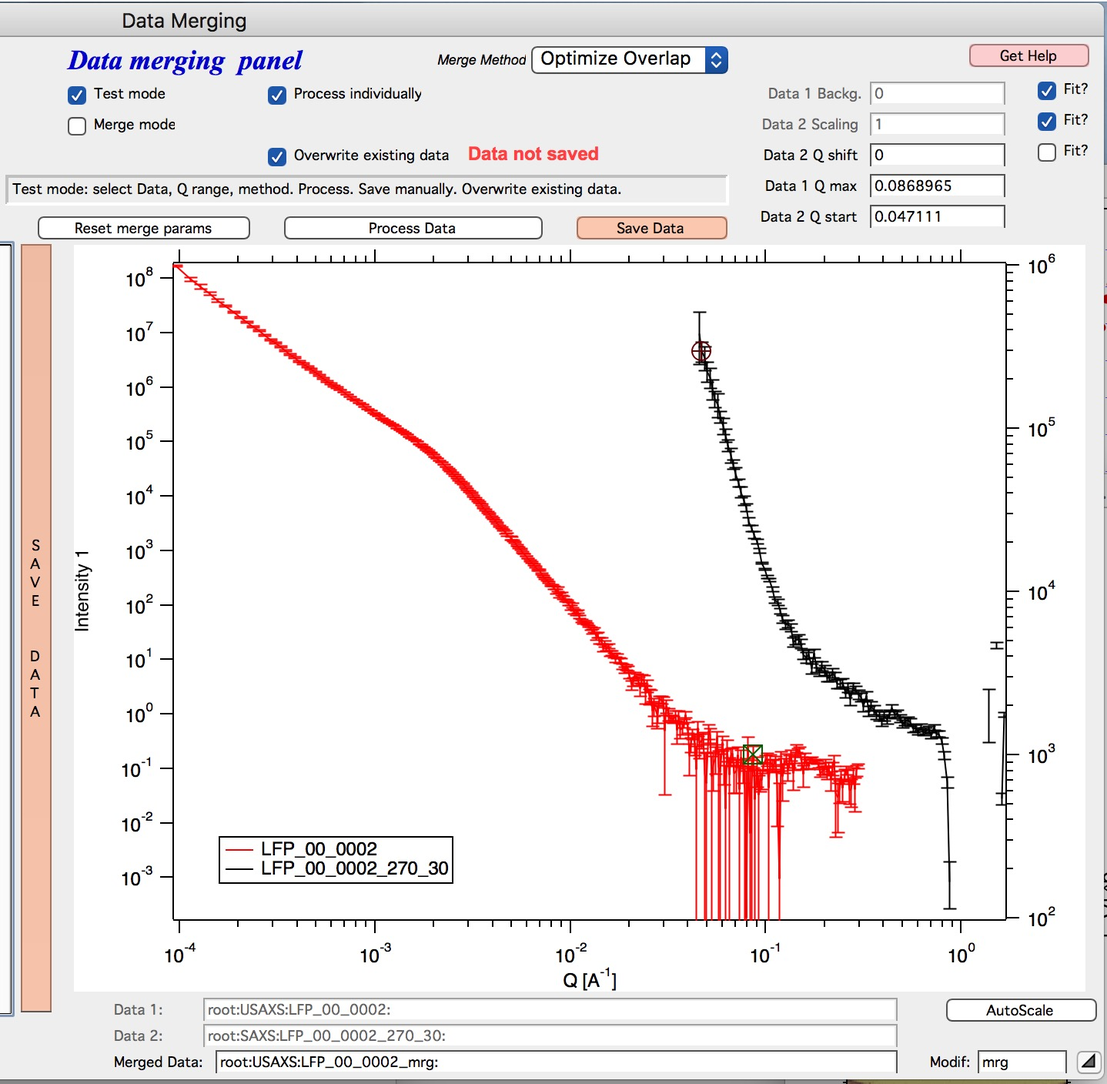
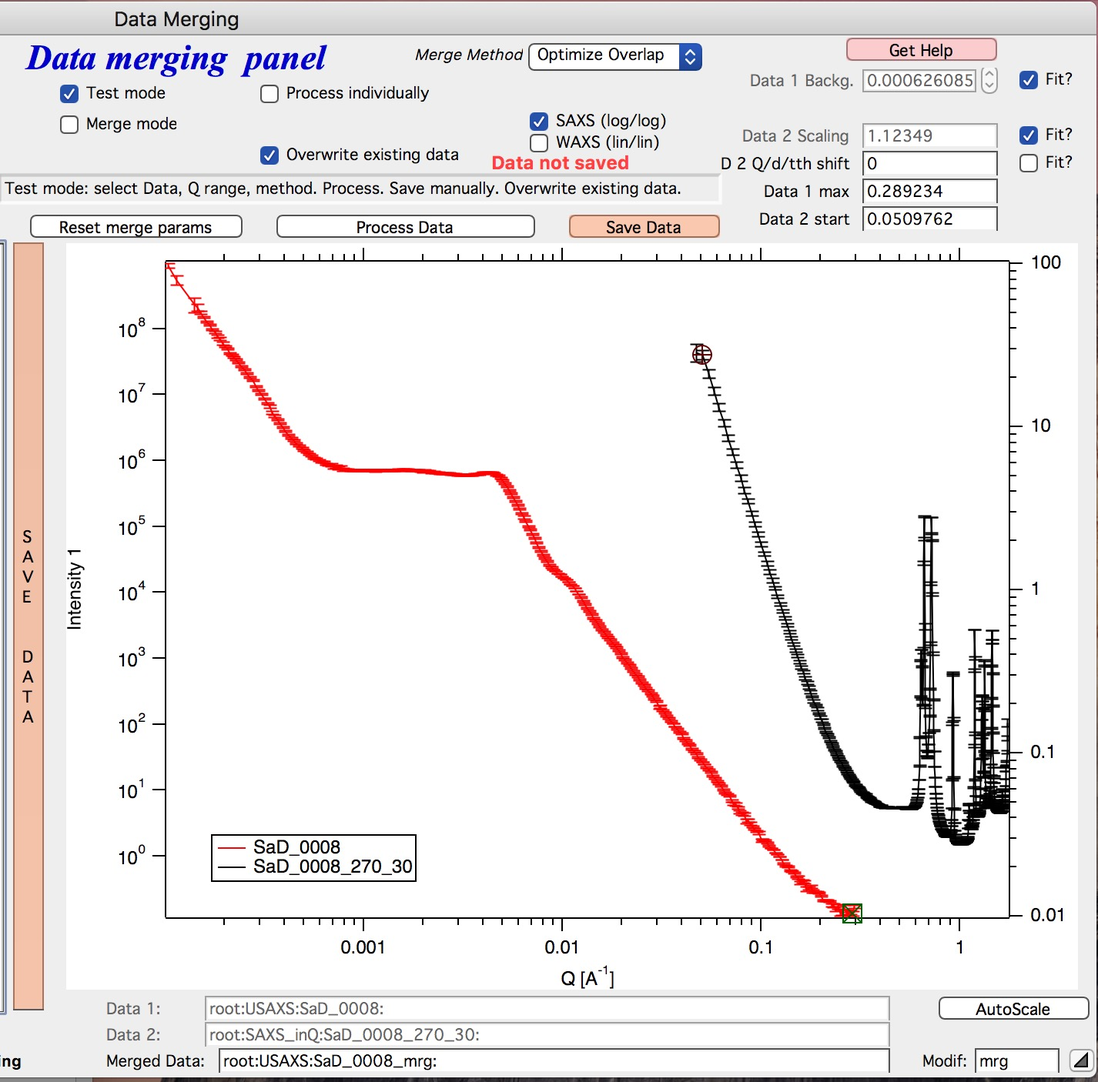
Fixes to data manipulation
Fixed Data Manipualtion to reflect changes. Fix for Deceber 2018 code release.

diff --git a/docs/source/Irena/DataManipulation.rst b/docs/source/Irena/DataManipulation.rst
@@ -5,14 +5,21 @@
 Data manipulation tools
 =======================
 
+List of Tools
+----------------
+
+1.  :ref:`Data Manipulation 1 - one or two data sets <data_manipulation_1>`
+2.  :ref:`Data Manipualtion 2 - many data sets <data_manipulation_2>`
+3.  :ref:`Data Merge - two data segments <data_merge>`
+
+Data manipulation I
+-------------------
 
 .. Figure:: media/DataManipulation1.png
            :align: left
            :width: 280px
            :figwidth: 300px
 
-Data manipulation I
--------------------
 
 This tool allows the user to modify data in many ways. It can work on one or two data sets at the same time. The data sets may or may not contain errors.
 
@@ -259,9 +266,11 @@ Post processing enables you to further modify data after they were processed thr
 Data merging
 ------------
 
-This tool is used to merge to segments of data covering overlapping q ranges. This is common situation for 9ID USAXS/SAXS/WAXS instrument, which collects data with three different geometries sequentially. Each data set for the same sample is reduced individually and then user has three individual segments of data, which can be combined together to create one new data set covering all of the q range.
+This tool is used to merge to segments of data covering overlapping q, two-theta, or d ranges. The tool can handle SAXS as well as WAXS data. This is common situation for 9ID USAXS/SAXS/WAXS instrument, which collects data with three different geometries sequentially. Each data set for the same sample is reduced individually and then user has three individual segments of data, which can be combined together to create one new data set covering all of the q range.
 
-This tool can help to merge two data sets at time. It is designed to efficiently scale, subtract background, and optionally q-shift the data together as easily and as efficiently as possible. It can do it manually by selecting each data set individually or sequentially, by selecting sets of data sets and processing all at once. It can also fit Data 1 set of data with function dependence (power law, power law with background or Porod with background) and use the fit results to create smooth version fo the data. This sinigficantly improves fit between the two segments when Data 1 high-q area is very noisy.
+It should be pointed out, that this is generally **BAD IDEA** . Data from segments collected at different distances or using different detectors will invariably have different resolutions, uncertainties, etc. Better data analysis software should allow to analyze data consisting of multiple independent segments, where the differences in resolution and uncertainties calculations can be handled better. **You have been warned. Proceed at your own peril.**
+
+This tool can help to merge two data sets at time. It is designed to efficiently scale second data set, subtract background from the first data set, and optionally q-shift any ONE of the two data sets - and merge the data together as easily and as efficiently as possible. It can do it manually by selecting each data set individually or sequentially, by selecting sets of data sets and processing all at once. It can also fit Data 1 set of data with function dependence (power law, power law with background or Porod with background) and use the fit results to create smooth version fo the data. This significantly improves fit between the two segments when Data 1 high-q area is very noisy.
 
 Please note, that the function of this tool is pretty limited. More functionality is available in the Data manipulation I and Data manipulation II. I do not plan to add other “missions” to this tool, use the other tools for anything, which is more advanced.
 
@@ -271,23 +280,23 @@ Data requirements: To merge two data sets you need to have data of one of the tw
 
 USAXS data: Inside root:USAXS: folder, name of the folder represents the sample name and the data are named SMR\_Int/SMR\_Qvec/SMR\_Error or DSM\_Int/DSM\_Qvec/DSM\_Error. Optionally you can have SMR/DSM\_dQ which is Q resolution wave. These data are, if present, properly passed through the calculations.
 
-QRS data: Folder name represents the sample name and inside this folder you have three or four waves: Q\_SampleName, R\_SampleName (Intensity), S\_SampleName (Intensity uncertainty), optionally W\_SampleName (Q resolution). No other naming system is NOT supported at this time and if needed, will need to be added into the system (request it, justify and send examples…).
+QRS data: Folder name represents the sample name and inside this folder you have three or four waves: Q\_SampleName, R\_SampleName (Intensity), S\_SampleName (Intensity uncertainty), optionally W\_SampleName (Q resolution). You can also have data Irena & Nika consider QRS also : consisting of d\_SampleName, R\_SampleName (Intensity), S\_SampleName or t\_SampleName, R\_SampleName (Intensity), S\_SampleName. The difference is that wave starting with t contains (x-axis) expressed in two-theta (in degrees) and wave starting with d contains d-spacings. No other naming system is NOT supported at this time and if needed, will need to be added into the system (request it, justify and send examples…).
 
 **What can be done**:
 
-*Optional Step - when "Merge method" is "Extrap. Data1 and Optimize"* : User can fit "First data set" end of data (high-q range for this set) with one of few funcitons. Code will then use the fitted parameters to replace the noisy fitted data with the smooth functional dependence. This helps with data which are noisy and where regular method of Optimizing overlap does not work too well...
+*Optional Step - when "Merge method" is "Extrap. Data1 and Optimize"* : User can fit "First data set" end of data (high-q range for this set) with one of few functions. Code will then use the fitted parameters to replace the noisy fitted data with the smooth functional dependence. This helps with data which are noisy and where regular method of Optimizing overlap does not work too well...
 
-*Main Step* :User selects the overlapping range of Qs for the data. The data are trimmed at these Qs! Code has 3 parameters of merging:
+*Main Step* :User selects the overlapping range of Qs for the data. The data are trimmed at these Qs! Code has 4 parameters of merging, up to 3 can be optimized at the same time :
 
 1.  Data 1 background - Data 1, low-q data, assumed to be the optionally absolutely calibrated, are assumed to have potentially flat background at high-q.
 2.  Data 2 scaling - Data 2, high-q data, need to be scaled to Data 1 with scaling factor.
-3.  Data 2 q-shift - Data 2 can have q shift if to compensate for any misalignment between the sectors. This is kind of specific for USAXS/SAXS/WAXS instrument at APS beamline 9ID. In this case the SAXS instrument is moved in and out of the position and the move may not be perfectly reproducible. It is therefore possible that the q calculated for the SAXS is not perfectly correct. Especially since USAXS q calibrations is very good. Therefore we can add q shift for Data 2 – the high q segment. This q shift is limited to be at most ½ of the q value for the first point on the second segment.
+3.  Data 1 or 2 q-shift - Data 1 or 2 can have q (d or t) shifted if to compensate for any misalignment between the segments. Typically this means user or staff failed to properly calibrate the instrument and it is strongly suggested to fix the calibration and reduce the data again to fix this misfit.  Allowed q/d/t shift is limited to be at most ½ of the q value for the first point on the second segment. This may not work as well for d type data which are kind of unique case anyway.
 
-Each parameter can be indivudally selected for optimization - or if known, can be inserted manually in the field. Keep in mind, that it is users job to set thevalue back to 0 or 1 if they decide not to use this parameter.
+Each parameter can be individually selected for optimization - or if known, can be inserted manually in the field. Keep in mind, that it is users job to set the value back to 0 or 1 if they decide not to use this parameter.
 
 These parameters are optimized using Igor Optimize function to minimize the misfit between the intensity points in the overlapping q range.
 
-Note, that Data manipulation I tool uses similar code. The Data manipulation tool I creates new folder/waves with names modified by adding **“\_comb**\ ” at their end. This tool adds **“\_mrg**\ ” at the end. User can change the term added to folder name in thelower right corner field on the panel.
+Note, that Data manipulation I tool uses similar code. The Data manipulation tool I creates new folder/waves with names modified by adding **“\_comb**\ ” at their end. This tool adds **“\_mrg**\ ” at the end. User can change the term added to folder name in the lower right corner field on the panel.
 
 Below is the GUI panel itself. ***Please NOTE : This tools is one large panel and requires 1280x800 screen size. It will NOT run on smaller screen sizes. ***
 
@@ -324,7 +333,7 @@ If you want to be more creative, see notes below the listbox with some cheatshee
 
 **Sort USAXS/SAXS/WAXS data** button : On the APS 9ID USAXS the data are collected sequentially using relatively customary naming system and in this case it is possible for the code to identify (mostly) which Data 1 (USAXS) and Data 2 (SAXS or WAXS) belong together. This button will locate such pairs of data sets, reorder the listbox to show those at the top and select those, so these can be easily processed in batch.
 
-If USAXS/SAXS/WAXS data collection is done correctly, all three segments belonging to the same sample will have same "order" number - that is the "_0000" number which instrument attaches to user sample name. Note, that in Nika during reduction appends to the name segment designation similar to "_C" for circular average, "_u" for USAXS slit smeared data and "_270_30" for SAXS pinhole data. SOrting should manage this and still allign to the same lines appropriate names. User needs to check.
+If USAXS/SAXS/WAXS data collection is done correctly, all three segments belonging to the same sample will have same "order" number - that is the "_0000" number which instrument attaches to user sample name. Note, that in Nika during reduction appends to the name segment designation similar to "_C" for circular average, "_u" for USAXS slit smeared data and "_270_30" for SAXS pinhole data. Sorting should manage this and still align to the same lines appropriate names. User needs to check.
 
 Please check the “History area” in Igor pro (ctrl-J or cmd-J will get you command line and history area). The code will make record here on the matched and not matched data sets.
 
@@ -374,17 +383,17 @@ The tool has two main modes of operation
 
 **Merge Method description**
 
-There are currently two Merge methods. Some has been aleardy described above, but here are the details.
+There are currently two Merge methods. Some has been already described above, but here are the details.
 
-1. **Optimized Overlap** This is the main part of the Data Merging tool. This is done always and is default method of this tool. If you push button "Reset merge params" this method is selected. If data have sufficiently good quality for both data sets over sufficient q/point range, this is preferred method. In this case the code will take the overlapping region in data and optimize values of all selected Parameters (Data 1 Backg., Data 2 Scaling , Data 2 Q shift). Any number of parameters can be selected. Value of the others, if known, can be put in by users manually. Default is to fit Data 1 Background and Data 2 scaling. Data 2 Q shift is assumed to be 0.
-2. **Extrap. Data1 and Optimize** This is optional part of the process. If selected, Data 1 is frist fitted with function selected in "Extrap fnc." popup (below the "Merge method popup") - options are Porod (Intensity = Backgr. + Const * Q\ :sup:`-4`), "Power Law" (Intensity = Const * Q\ :sup:`-P`) or "Power law w Backg" (Intensity = Backgr. + Const * Q\ :sup:`-P`). Range of data used for fitting is selcted by cursors C and D, which are placed in the graph when needed. The look like cross and have letters next to them:
+1. **Optimized Overlap** This is the main part of the Data Merging tool. This is done always and is default method of this tool. If you push button "Reset merge params" this method is selected. If data have sufficiently good quality for both data sets over sufficient q/point range, this is preferred method. In this case the code will take the overlapping region in data and optimize values of all selected Parameters (Data 1 Backg., Data 2 Scaling, Data 1 or 2 Q shift). Any number of parameters can be selected. Value of the others, if known, can be put in by users manually. Default is to fit Data 1 Background and Data 2 scaling. Data 1 and 2 Q shift is assumed to be 0.
+2. **Extrap. Data1 and Optimize** This is optional part of the process. If selected, Data 1 is first fitted with function selected in "Extrap fnc." popup (below the "Merge method popup") - options are Porod (Intensity = Backgr. + Const * Q\ :sup:`-4`), "Power Law" (Intensity = Const * Q\ :sup:`-P`) or "Power law w Backg" (Intensity = Backgr. + Const * Q\ :sup:`-P`). Range of data used for fitting is selected by cursors C and D, which are placed in the graph when needed. The look like cross and have letters next to them:
 
 .. image:: media/DataManipulation20.jpg
            :align: left
            :width: 430px
 
 
-User needs to select proper range of data where the appropriate "Extrap. fnc."" is suitable. These data are then fitted and resulting parameters are being used to generat enew, smooth data points calculated from the functions for original Q values. These are generated for Data1 points between the cursor C and Cursor B (rectangular) which designated high-q range of Data 1 which is used for overlap optimization and for merged data. Thisis important - the code replaces original (noisy) data with smooth functional data. It leaves original uncertainties on the points. See step wise description bit later for use details.
+User needs to select proper range of data where the appropriate "Extrap. fnc."" is suitable. These data are then fitted and resulting parameters are being used to generate new, smooth data points calculated from the functions for original Q values. These are generated for Data1 points between the cursor C and Cursor B (rectangular) which designated high-q range of Data 1 which is used for overlap optimization and for merged data. This is important - the code replaces original (noisy) data with smooth functional data. It leaves original uncertainties on the points. See step wise description bit later for use details.
 
 Other checkbox/controls functions:
 
@@ -394,14 +403,16 @@ Other checkbox/controls functions:
 
 **Overwrite existing data** checkbox – if selected the tool will overwrite any prior data in the location where it is directed to save the merged data. I suspect this is what most people will want. If NOT selected, the code will create new, unique, target folder each time and user can create potentially huge number of garbage containing folders with test data which are useless. Keep this in mind.
 
-Here are values / chekcboxes:
+**Here are values / checkboxes for optimization **
 
 .. image:: media/DataManipulation21.jpg
            :align: left
            :width: 280px
 
 
-The top 3 values show the values used for scaling/merging procedures. User can either check the "Fit?" checkbox next to them and have them Optimized each time or uncheck it and input proper value - if known. In the case above the Background and Scaling are fitted, Q shift is set to 0. This should be default use case.
+The top 3 values show the values used for scaling/merging procedures. Note the space between the Data 1 Background and Data 2 scaling. If your Data 1 data are QRS data (NOT USAXS data) then there will be option to "D 1 Q/d/tth shift". This allows at that moment to shift Data 1 in Q/d/tth. Only one of the segments can be shifted via optimization. User can punch in numbers manually, but it is likely impossible to suggest at all!!!!
+
+ User can either check the "Fit?" checkbox next to them and have them Optimized each time or uncheck it and input proper value - if known. In the case above the Background and Scaling are fitted, Q shift is set to 0. This should be default use case.
 
 The **Data 1 Q max** is the end of the Q range (high Q of the low-q data segment). Defaults to point before last on Data 1 set. You can either change this value by typing in or by dragging the cursor B (rectangle) to new place.
 
@@ -444,8 +455,8 @@ Saving data - wave note change:
 
 My code uses wave notes to store additional information. After merging the data, the code adds following information (example):
 
-Data from merged=root:USAXS:'07\_18\_Jan':S118\_Jong\_320nm\_40pct:;Data
-merged with=root:pinSAXS:Jong\_320nm\_40pct\_4001\_usx:;
+Data from merged=root\:USAXS\:'07\_18\_Jan':S118\_Jong\_320nm\_40pct:;Data
+merged with=root\:SAXS\:Jong\_320nm\_40pct\_4001\_usx:;
 
 If these data would be already merged and these keys would already exist, new content is added, separated by “,” to these keys, so there would be multiple folder names in these fields in order these segments were added. Somehow I do not think this will cause much confusion.
 
@@ -472,6 +483,6 @@ If I zoom in the data and look at them in detail, it should be clear what happen
            :align: left
            :width: 690px
 
-As you can see, original noisy Data 1 points (red data) are repalced between cursor C and B with smotth power law data (with original error bars). Those data are then merged with the Data 2 which are nearly perfectly scaled to Data 1, even though the overlap region is quite small (there are only 6 points of each data in the overlap region). Since the Data 1 are here approximated with lots more data points to create data for overlap, the robustness of this merging is much higher than when 6 noisy points are used. Also, since the cursor D is at lower q value than even cursor A, merging data are calculated from more, less noise, more robust points. Assuming the Power law is correct approximation of data in the selected range between cursor C and B, this is better way of merging data.
+As you can see, original noisy Data 1 points (red data) are replaced between cursor C and B with smooth power law data (with original error bars). Those data are then merged with the Data 2 which are nearly perfectly scaled to Data 1, even though the overlap region is quite small (there are only 6 points of each data in the overlap region). Since the Data 1 are here approximated with lots more data points to create data for overlap, the robustness of this merging is much higher than when 6 noisy points are used. Also, since the cursor D is at lower q value than even cursor A, merging data are calculated from more, less noise, more robust points. Assuming the Power law is correct approximation of data in the selected range between cursor C and B, this is better way of merging data.
 
 Now I can push "Save Data" button and actually, in this case, use same setting for all of the data I have in the set, since they are all very similar.

diff --git a/docs/source/Nika/InstrumentSupport.rst b/docs/source/Nika/InstrumentSupport.rst
@@ -14,7 +14,7 @@ Currently there are these instruments supported:
 3.  :ref:`ALS RSoXS soft energy SAXS <Nika.ALS_RSoXS>`
 4.  :ref:`SSRL Mat SAXS <Nika.SSRL_MatSAXS>`
 5.  :ref:`TPA <Nika.TPA>`
-6.  :ref:`APS 6ID DND SAXS/WAXS <Nika.5ID_DND>`
+6.  :ref:`APS 5ID DND SAXS/WAXS <Nika.5ID_DND>`
 
 .. _Nika.9IDC_Instrument:
 
@@ -95,24 +95,33 @@ Other instrument setups can be added on request. Provide me with enough data and
 DND CAT (APS 5ID) SAXS camera
 -----------------------------
 
-DND CAT provides users with data, which are organized in specific folder structure. The data are reduced using scripts based on fit2d at the beamline. However, if users wants to process data later in different manner, they have to contact beamline staff and whole process is cumbersome.
+DND CAT provides users with data, which are organized in specific folder structure. The data are reduced using scripts based on GSAS-II at the beamline. However, if users wants to process data later in different manner, they have to contact beamline staff and whole process is cumbersome.
 
 Nika DND support is build on presence of evaluated data in text file, where header contains all necessary information for data reduction. Therefore, user opens this text file and the Tiff file with the processed image is found automatically (if user did not change the folder structure). Alternatively, user can point the Nika to the image files, when asked.
 
 The data can then be reprocessed – for example different sectors can be analyzed etc.
 
-Note, that the user needs to make a new mask, but other parameters (beam center, wavelength, calibration constant s well as sample transmission and thickness) are loaded from the header.
+Note, that the user needs to make a new mask, but other parameters (beam center, wavelength, calibration constant as well as sample transmission and thickness) are loaded from the header.
 
-To use:
+The following are instructions which you will get when you select: **"SAS 2D"->"Instrument configurations"--> "DND CAT"**
 
-1. select DND/txt as file type and point find data in the right folder. It is likely something like:…/APSCycle/YourName/Month/processing/data/plot\_files
+*Instructions for use of DND CAT special configuration*
 
-2. select and display one or more of the text files which contains current configuration and display. If the folder structure is correct, tiff image is found automatically. If not, Nika will ask for the image location. It should be necessary only once, unless the images are in different places.
+0. Open Nika's main panel, if needed.
 
-3. Select “Instrument configurations” >> “DND CAT”. Select configuration from the listed names of the text fie(s) which were loaded already. This will set wavelength, pixel sizes, distance, and centers… Also it will set proper calibration configuration and functions, which should be used. Note: Dark was already subtracted from these files, so you need only the few parameters listed (thickness, calibration constant and transmission).
+1. Select "DND/txt" as image type. Check "Display only" as processing method so you do not get errors if mask/parameters are not correct.
 
-4. Create and use mask.
+2. Using "Select data path" load one txt file located in .../APSCycle/YourName/Month/processing/plot_files, these are the txt files you want to see in the file list. Nika will find tiff files on its own.
 
-5. If you have empty run measurements, select the checkbox for “\ **subtract empty”**. Do not change values for “\ **Use I0/I0emp**\ ” or value of 1 for I0. This is important to scale properly Empty and Sample incoming intensities and measurement times.
+        Note, you can load DND processed 1D ASCII data from these files directly into the Irena package using ASCII loader. Q is second column, Intensity is third and error is fourth. Nika is needed only if you want to reprocess the 2D->1D data again, for example if you need sector averages, different mask, etc.
+        ´
+3. Now, run the Configuration function again... Select in the "SAS 2D"->"Instrument configurations"--> "DND CAT". Select name.txt file with the same name as tiff file you want to process. This will configure the Nika properly (for that detector!!!, there are 3 detectors on DND SAXS), including wavelength, distance, etc. Correct checkboxes will be checked and functions set to provide same data processing as DND suggests to do (see below).
 
-6. Select proper reduction parameters (circular, sector etc…).
+4. Create mask. You need to create it or load it if you have already created it. Make sure you use the correct image file to create it - with the three different image files associated with each sample, it is bit complicated. Nika does not like when mask and image dimension do not match.
+
+5. Set Nika processing & output options you want = set tabs "Sect.", "LineProf" and "Save/Exp". Set Processing options (checkboxes), likely you need "Process sel. files individually"
+
+6. To reduce image, select the text file with the same name as the tiff file you want to process and "Process image(s)". Nika will parse parameters (wavelength, calibration values, thickness,...) from this txt file, locate the tiff file, load it, and process as described. If you do circular average, you should get what the text file contains. It is good to check that you actually get the same output before using Nika to do different types of processing (e.g., sectors). If something does not match, let me know...
+
+
+This document contains also description I obtained for DND CAT on how data should be processed as well as information where strings with the header from each text file are, in case you need more parameters.

diff --git a/docs/source/Irena/FAQ.rst b/docs/source/Irena/FAQ.rst
@@ -18,6 +18,8 @@ List of Subjects
 3.  :ref:`What do I do if I need different Form Factor? <FAQ.ModelingUserFormFactor>`
 4.  :ref:`Why does Modeling warn against use of multiple Unified levels? <FAQ.ModelingMultipleUFlevels>`
 5.  :ref:`What is RgCo in Unified fit and why do I need to understand it? <FAQ.RgCO>`
+6.  :ref:`How does Irena get volume fraction (and otehr absolute values)? <FAQ.Calibration>`
+
 
 
 
@@ -60,3 +62,12 @@ Unified fit tool requires specific order to "levels" used but Modeling does not,
 RgCO is surprisingly **important** parameter for Unified fit which is poorly understood by many or even most users. It causes a lot of problems if it is applied incorrectly.
 
 Many structures studied in small-angle scattering exhibit multiple length scales on which they scatter (not everything is a sphere) - e.g., just simple cylinder with aspect ration >1 has two major length scales - radius and length. Both of these generate in small angle scattering something, which resembles Guinier Knee, with its own Rg :ref:`Cylinder form factor <FormFactors.Cylinder>`. In order to model such system in Unified fit we need to use multiple levels for one system of particles. In fitting you start with smaller dimension (radius for the cylinder) and fit that with a level (let's say level 1). This fits the high-q area. Then you can fit the low-q area with Level 2; you fit the Guinier area and then power law slope between the two Rgs. But this power law slope is approximately -1 (see :ref:`Cylinder form factor <FormFactors.Cylinder>`). This means that Level 2 power law scattering will eventually be higher that SAXS data. To "merge" tow levels into one and allow these two levels to represent ONE population of scatterers - which scatter at multiple length scales - you need to employ the RgCO parameter. This parameter needs to be set for Level 2 and set to value of Rg for Level 1. In Unified fit there is helpful checkbox which links the RgCo of level n to Rg of level n-1. Note, that you can have multiple length scales for scattering system well beyond two - three dimensional object may have three, but hierarchical systems like fractals can have even more. It is, however, unlikely it would be possible to collect SAXS/SANS data which reflect this. Please also check :ref:`Do Modeling populations have required order? <FAQ.ModelingPopsOrder>`.
+
+.. _FAQ.Calibration:
+
+*How do Irena tools get absolute volume fractions, specific sufc areas etc?*
+----------------------------------------------------------------------------
+
+Irena expects that input data are properly calibrated. Therefore, the Q vector is expected to be calibrated and have units of [1/Angstrom]. This is common and expected by users...
+
+However, in order to get absolute volume fractions or specific surface areas of scatterers, Irena needs input INTENSITY data to be on absolute intensity scale. Irena expects the Intensity to be in [cm2/(cm3\*steradian)], usually noted as [cm2/cm3] or even [1/cm]. If such data are provided and *if user inputs correct scattering contrast*, Irena output is correct volume fraction. For this, see paper on Glassy carbon: Allen, Andrew J., Fan Zhang, R. Joseph Kline, William F. Guthrie, and Jan Ilavsky. "NIST Standard Reference Material 3600: Absolute Intensity Calibration Standard for Small-Angle X-Ray Scattering." Journal Of Applied Crystallography 50, no. 2 (Apr 1 2017): 462-74. http://dx.doi.org/doi:10.1107/S1600576717001972. There are many papers on this subject, my movie is on Youtube (https://www.youtube.com/watch?v=FM5w2hwT7Ns&list=PL_su_4DtkZp_DCXqXX-jmo5upybkAKE3B) etc. Basically, Irena expects that your data are corrected for sample thickness and all instrument effects. If needed, check Nika part of this manual. 
